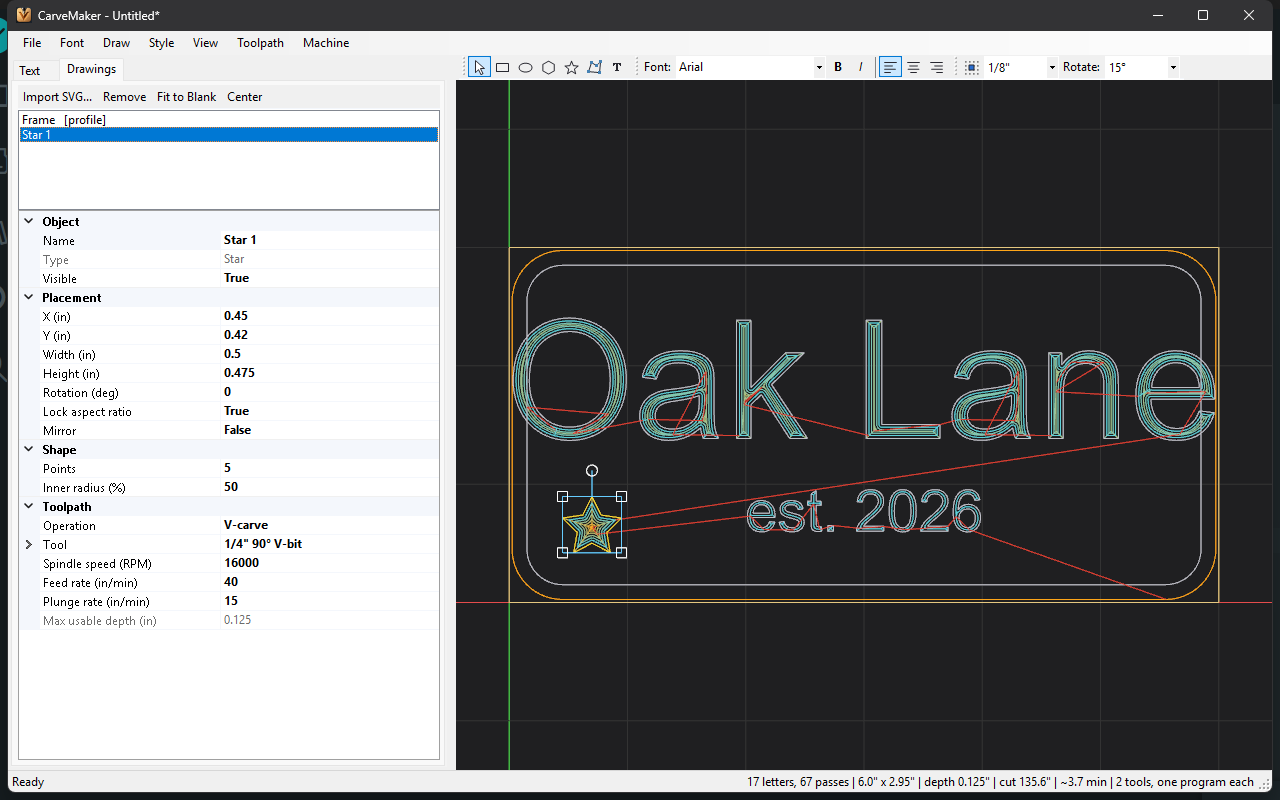
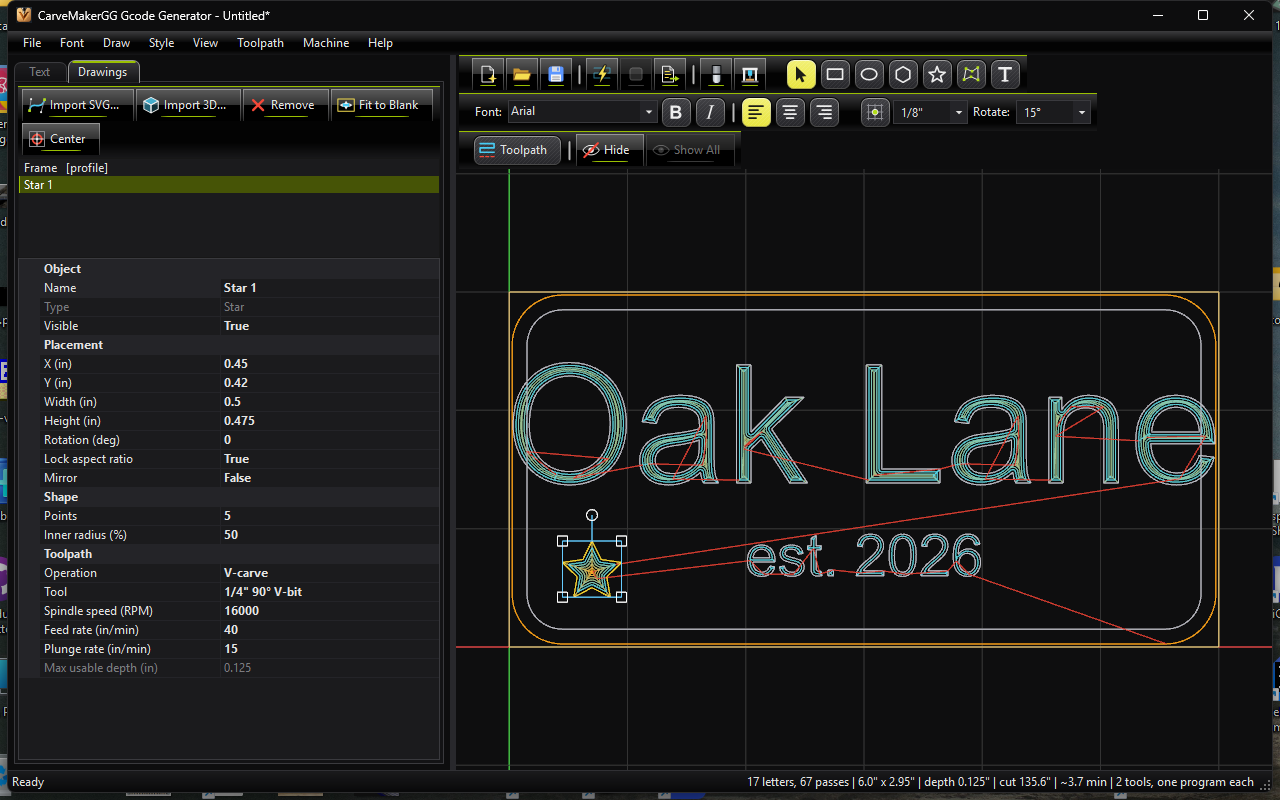
Rename to CarveMakerGG Gcode Generator
Everything people see now says CarveMakerGG Gcode Generator (AppInfo.Name):
the title bar, About, dialogs and messages, the project file filter, the
G-code header, Explorer's file description, the installer (name, Start menu,
file type, CarveMakerGG-Gcode-Generator-Setup-<version>.exe), the release
titles, the user guide (now Help\CarveMakerGG Gcode Generator Help.html, with
new screenshots of the dark look) and the README.

Kept on purpose so nothing breaks: CarveMaker.exe, the solution and project
files, %AppData%\CarveMaker (tool library, preferences), the installer's
AppId and install folder (an installed CarveMaker upgrades in place; the old
Start menu shortcuts and guide are removed), and the project file marker.

The GitHub repo is now mikeoverbay/CarveMakerGG; Help > Newer Versions and
the README link there.

diff --git a/Help/CarveMakerGG Gcode Generator Help.html b/Help/CarveMakerGG Gcode Generator Help.html
@@ -3,7 +3,7 @@
 <head>
 <meta charset="utf-8">
 <meta name="viewport" content="width=device-width, initial-scale=1">
-<title>CarveMaker User Guide</title>
+<title>CarveMakerGG Gcode Generator User Guide</title>
 <style>
   :root {
     --bg: #fbfaf7; --fg: #23211d; --muted: #6a655c; --line: #e2ddd3; --panel: #f2eee6;
@@ -52,7 +52,7 @@
 <body>
 <div class="layout">
 <nav>
-  <div class="brand">CarveMaker</div>
+  <div class="brand">CarveMakerGG Gcode Generator</div>
   <div class="ver">User Guide</div>
   <a href="#start">Getting started</a>
   <a href="#window">The main window</a>
@@ -75,12 +75,12 @@
 </nav>
 <main>
 
-<h1>CarveMaker User Guide</h1>
-<p class="lead">CarveMaker turns text and drawings into CNC toolpaths: V-carving, pockets and profiles, with a live
+<h1>CarveMakerGG Gcode Generator User Guide</h1>
+<p class="lead">CarveMakerGG Gcode Generator turns text and drawings into CNC toolpaths: V-carving, pockets and profiles, with a live
 3D preview and a material-removal simulation, written as G-code for FluidNC and GRBL style machines.</p>
 
 <figure>
-  <img src="images/main-window.png" alt="CarveMaker main window with a framed sign">
+  <img src="images/main-window.png" alt="CarveMakerGG Gcode Generator main window with a framed sign">
   <figcaption>A sign in progress: the text on the Text tab, a frame and a star on the Drawings tab, and the toolpath in the view.</figcaption>
 </figure>
 
@@ -275,11 +275,11 @@
   <li><b>"Text runs off the blank"</b> in the status bar: make the text smaller, change the margins, or move it.</li>
   <li><b>A drawing is named in the status bar as not carved</b>: usually its font is not installed on this PC. A text drawing from another PC carves the outline saved with the project until you change its words or style; pick an installed font to edit it.</li>
   <li><b>Areas narrower than the tool</b> are reported: use a smaller end mill or V-carve instead.</li>
-  <li><b>The view is blank or slow</b>: CarveMaker needs OpenGL 3.3. On integrated graphics set <i>Display mesh</i> to Low; toolpaths and G-code still work without the view.</li>
+  <li><b>The view is blank or slow</b>: CarveMakerGG Gcode Generator needs OpenGL 3.3. On integrated graphics set <i>Display mesh</i> to Low; toolpaths and G-code still work without the view.</li>
   <li><b>Tune speeds and feeds</b> in the Tool Library for your machine and material; every toolpath can still override them.</li>
   <li>Projects, the tool library and your preferences are kept when you install a newer version.</li>
 </ul>
-<p>Newer versions: <a href="https://github.com/mikeoverbay/CarveMaker/releases">github.com/mikeoverbay/CarveMaker/releases</a></p>
+<p>Newer versions: <a href="https://github.com/mikeoverbay/CarveMakerGG/releases">github.com/mikeoverbay/CarveMakerGG/releases</a></p>
 
 </main>
 </div>

diff --git a/HANDOFF.md b/HANDOFF.md
@@ -1,17 +1,23 @@
-# CarveMaker handoff (updated 2026-10-26: dark Code Chop skin, Project toolbar)
+# CarveMakerGG Gcode Generator (CarveMaker) handoff (updated 2026-10-27: renamed, dark Code Chop skin, Project toolbar)
 
 Written so any session (or person) can pick the project up without the chat
 history. Read this, then `README.md` for the user-facing description.
 
 ## State of the repo
 
-- Folder `C:\Text_to_CNC_path`, branch `master`, remote `github.com/mikeoverbay/CarveMaker`.
+- **Name.** Since 2026-10-26 everything people see says **CarveMakerGG Gcode Generator** (`AppInfo.Name`:
+  title bar, About, dialogs, messages, G-code header, installer, Start menu, user guide, release titles).
+  The user chose to keep the internals: `CarveMaker.exe`, `CarveMaker.sln/.vbproj`, the code namespace,
+  `%AppData%\CarveMaker` (tool library, preferences), the installer's fixed AppId and install folder,
+  and the project file marker `"App": "CarveMaker"`. The GitHub repo is **mikeoverbay/CarveMakerGG**
+  (renamed by the user; the old URL redirects).
+- Folder `C:\Text_to_CNC_path`, branch `master`, remote `github.com/mikeoverbay/CarveMakerGG`.
 - Everything up to the handoff commit `e23cc0c` is pushed. Check `git status`
   and `git log origin/master..master` for anything newer; push with
   `git push origin master` only when the user asks.
   `Samples\00717 Mandala Floral Pattern` is a git-ignored stock-art test pack.
 - Releases: GitHub Actions (`.github/workflows/release.yml`) builds Release on
-  every push and publishes `CarveMaker-Setup-<ver>.exe` on tags `v*`, with
+  every push and publishes `CarveMakerGG-Gcode-Generator-Setup-<ver>.exe` on tags `v*`, with
   `release-notes.md` as the release text. Releases so far: v1.0.0; v1.1.0 (tool
   library, pocket/profile, per-toolpath feeds, drawing tools, snapping); v1.2.0
   (movable toolbars); v1.3.0 (user guide with Help menu, click priority / Ctrl+click).
@@ -19,11 +25,11 @@ history. Read this, then `README.md` for the user-facing description.
   1. run the harness modes; 2. write `release-notes.md` for the new version;
   3. bump `<Version>` in `Directory.Build.props` and the fallback `AppVersion` in
   `Setup/Setup.iss`; 4. commit, then `dotnet build CarveMaker.sln -c Release`
-  (installer `CarveMaker-Setup-<ver>.exe` in the root; build after the commit so the
+  (installer `CarveMakerGG-Gcode-Generator-Setup-<ver>.exe` in the root; build after the commit so the
   exe's version carries the release commit's hash, not its parent's); 5.
   `git tag -a vX.Y.Z`, push master and the tag; 6. watch the Actions run for the tag and check the release has
   the installer (public pages: /actions, /releases/expanded_assets/vX.Y.Z); 7. install
-  it here (`CarveMaker-Setup-<ver>.exe /VERYSILENT /SUPPRESSMSGBOXES /NORESTART
+  it here (`CarveMakerGG-Gcode-Generator-Setup-<ver>.exe /VERYSILENT /SUPPRESSMSGBOXES /NORESTART
   /CURRENTUSER`, per-user, upgrades in place) once CarveMaker is closed.
 
 ## Build and run
@@ -65,8 +71,9 @@ the app. Do not run `python` from Bash on this machine (Store alias hangs).
 | `frmMachineSettings.vb` / `.Designer.vb` | Machine Settings tool window (Machine > Machine Settings, Ctrl+K), owned by the main form, hides on close |
 | `frmMain.vb` / `.Designer.vb` | UI: Text tab (editor + `pgText` text settings), Drawings tab, binds the Machine Settings window, menus, simulation bar, regenerate pipeline (`RequestRegenerate` -> 400 ms timer -> `GenerateAsync` on a worker) |
 | `Preferences.vb` | `UserPreferences`: per-user snap settings (JSON in %AppData%\CarveMaker), offered spacings and rotation steps |
-| `frmMain.Help.vb` | Partial frmMain: Help menu (User Guide F1 opens `Help\CarveMaker Help.html` next to the exe, falling back to the README online; Newer Versions; About) |
+| `frmMain.Help.vb` | Partial frmMain: Help menu (User Guide F1 opens `Help\CarveMakerGG Gcode Generator Help.html` next to the exe, falling back to the README online; Newer Versions; About) |
 | `Help\` | The user guide (HTML, self-contained CSS, light/dark) and its screenshots in `Help\images` (made by the harness `helpshots` mode); copied next to the exe and into the installer, with a Start-menu shortcut |
+| `AppInfo.vb` | `AppInfo.Name` ("CarveMakerGG Gcode Generator", the name people see) and `AppInfo.RepoUrl` |
 | `Skin.vb` | The dark look after the user's old program Code Chop: colours, `PaintButton` (Square = glossy command with a lime bar that glows; Round = toggle, yellow while on), `PaintBand` (toolbar band with a lime edge), `PaintSpacer`, `Apply` (walks a window and darkens every control; does not recurse into composite controls), `StyleToolbar` (32 px buttons, 20 px icons, text buttons padded to the same height), `SetIcon`/`Icon`/`YellowTwin` (each light icon keeps a dark twin for the yellow state), `MarkToggle`, `SkinRenderer` (+ `SkinColorTable`) for menus, toolbars and the status bar, `DarkTabControl`, DWM dark title bar, `SetWindowTheme` dark themes, owner-drawn ListBox and DropDownList ComboBox |
 | `Icons.vb` | `IconKind` and every button/menu picture, drawn in code on a 20-unit grid (light ink, or dark ink for a yellow toggle); `ToolLibrary` uses `ToolDrawing.RenderIcon` |
 | `frmMain.Skin.vb` | Partial frmMain: `SetupSkin` (skin, toolbar styling, toggles, toolbar and menu icons) and the Project toolbar (`tsProject`: `MenuButton` mirrors a menu item's click and enabled state) |

diff --git a/README.md b/README.md
@@ -1,4 +1,8 @@
-# CarveMaker
+# CarveMakerGG Gcode Generator
+
+*(Formerly CarveMaker. The program file `CarveMaker.exe`, the settings folder
+`%AppData%\CarveMaker` and the installer's identity keep that name, so an installed
+CarveMaker upgrades in place and keeps its tool library and settings.)*
 
 Windows desktop app (VB.NET, .NET 8, WinForms) that turns typed text in any
 installed font into a **V-carve toolpath** for a V-bit (default 1/4" diameter,
@@ -29,15 +33,15 @@ screen scale; the Tool Library button shows a real tool.
 
 ## User guide
 
-**Help > User Guide** (F1) opens the guide (`Help/CarveMaker Help.html`, also in
+**Help > User Guide** (F1) opens the guide (`Help/CarveMakerGG Gcode Generator Help.html`, also in
 the Start menu): getting started, text, drawing, toolbars, toolpaths, the tool
 library, machine settings, the simulation, and every shortcut.
 
 ## Download
 
 Ready-made installers are on the
-[Releases page](https://github.com/mikeoverbay/CarveMaker/releases): download
-`CarveMaker-Setup-<version>.exe` and run it. Nothing else is needed; the
+[Releases page](https://github.com/mikeoverbay/CarveMakerGG/releases): download
+`CarveMakerGG-Gcode-Generator-Setup-<version>.exe` and run it. Nothing else is needed; the
 installer carries its own .NET runtime. (The exe is unsigned, so Windows
 SmartScreen may ask you to confirm the first time.)
 
@@ -319,7 +323,7 @@ values by tool type and size.
 Numbers accept decimals or fractions (`0.25`, `1/4`, `1-1/4`). Names follow the
 numbers unless you type your own. **New** adds a tool of a type, **Duplicate**
 copies one, **Delete** removes it; **Save** writes the library to
-`%AppData%CarveMakerToolLibrary.json` (the standard tools are used until then).
+`%AppData%\CarveMaker\ToolLibrary.json` (the standard tools are used until then).
 V-carving takes a V-bit. Pockets take end mills (flat, ball or bull nose).
 Profiles take end mills, or a V-bit on the line. The simulation draws whichever bit carves the job.
 Projects saved before the library open with an equivalent V-bit.
@@ -387,7 +391,7 @@ self-contained for x64 into `Setup\publish\` (no .NET install needed on the
 target PC) and compiles `Setup\Setup.iss` with the Inno Setup compiler that
 comes from the `Tools.InnoSetup` NuGet package, so no extension or separate
 download is required. The result is
-`CarveMaker-Setup-<version>.exe` in the solution root (about 48 MB).
+`CarveMakerGG-Gcode-Generator-Setup-<version>.exe` in the solution root (about 48 MB).
 
 The installer offers per-user or all-users install, Start Menu and optional
 desktop shortcuts, an uninstaller, in-place upgrades (same AppId) and adds the
